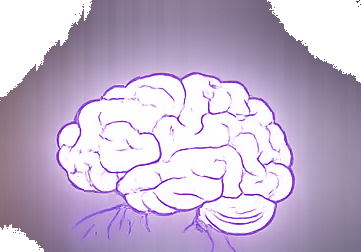
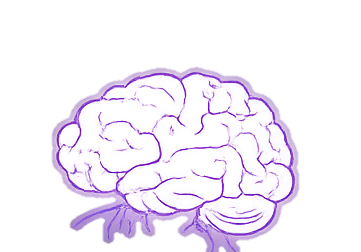
Flashcards : extraction du dessin pur via Canny + greeting chatbot plus pro
- Flashcards : Canny edge detection + dilation 5px → seul le trait du
  dessin reste (lignes des illustrations), tout le reste (white bg
  ET watercolor wash) devient transparent. Aucun rectangle, aucun
  halo, aucun fond résiduel.
- Course chatbot : nouveau message d'accueil professionnel, sans
  mentionner le nom du cours ('Bonjour. Posez votre question
  concernant ce cours, je vous réponds en m'appuyant sur les contenus
  pédagogiques.') — remplace le ton familier avec emojis.

diff --git a/src/components/course-chatbot.tsx b/src/components/course-chatbot.tsx
@@ -20,7 +20,7 @@ export function CourseChatbot({
   const [messages, setMessages] = useState<Message[]>([
     {
       role: 'assistant',
-      content: `Salut 👋 — je suis là pour t'aider sur « ${coursTitre} ». Vas-y, balance ta question, je te réponds.`,
+      content: `Bonjour. Posez votre question concernant ce cours, je vous réponds en m'appuyant sur les contenus pédagogiques.`,
     },
   ]);
   const [input, setInput] = useState('');
